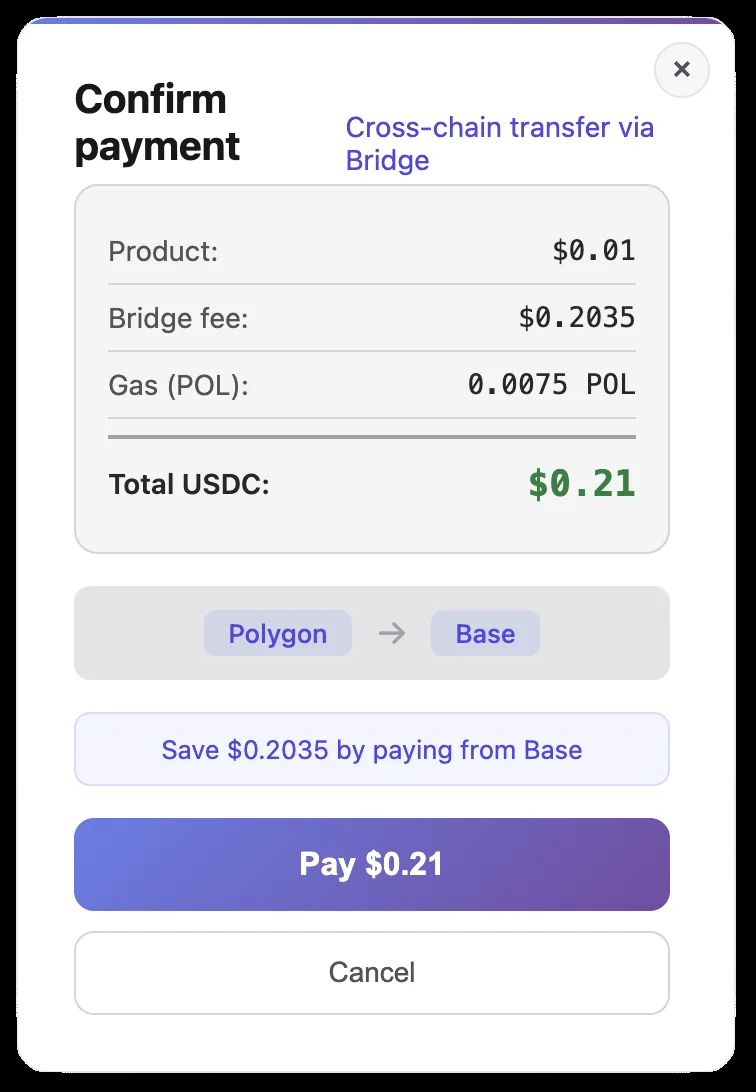
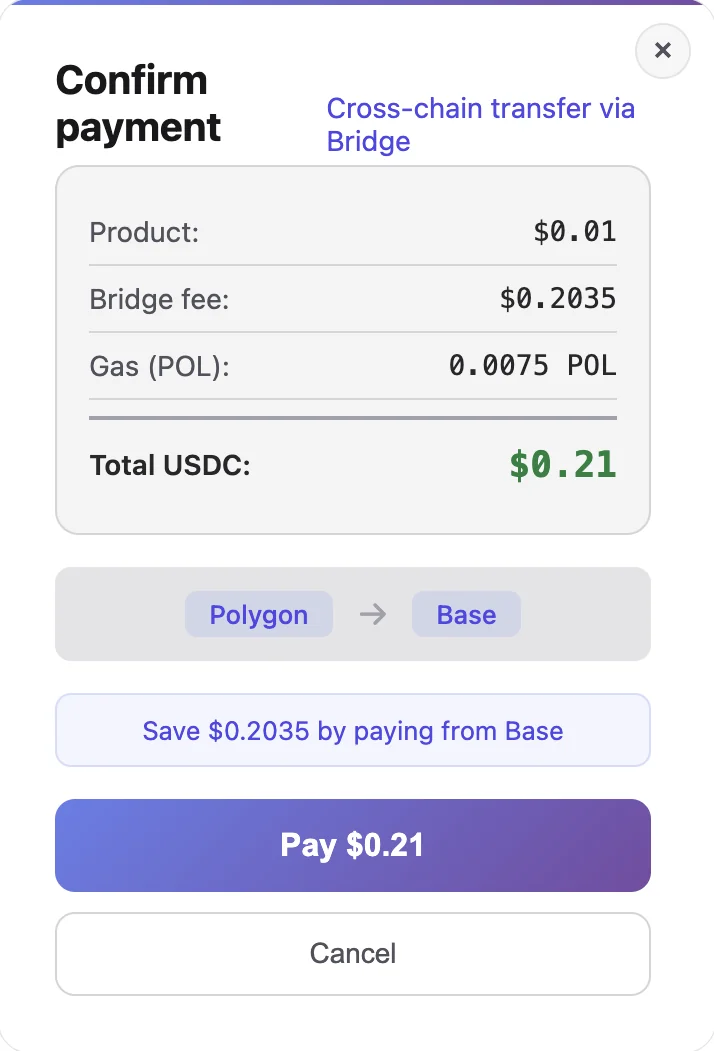
Fix black frames and blur in the Fivo case-study screenshots
The light widget PNGs carry transparent margins; flattening them
without alpha painted those margins black. Crop each capture to its
solid card and flatten on white. The only light-mode dashboard in the
asset folder is a 642 px (1x) crop, which blurs when enlarged: keep it
at its native width in the merchant chapter and as a medium gallery
piece, and use the crisp light demo store (with the Fivo button in the
cart) as the hero anchor instead. Add the checkout-over-store capture
to the gallery.

Claude-Session: https://claude.ai/code/session_01JiMf73s2SCKz6bz3sQmBXa

diff --git a/src/sections/work/fivo/FivoHeroComposition.jsx b/src/sections/work/fivo/FivoHeroComposition.jsx
@@ -3,7 +3,7 @@ import { Shot } from "./fivoBits";
 /**
  * The hero visual — real Fivo surfaces on one controlled stage:
  *
- *   LARGE   merchant dashboard (light, sanitized; shown near its native size)
+ *   LARGE   the light demo store with the Fivo button in the cart (crisp 2x capture)
  *   MAIN    checkout with network selection, tall, front-left
  *   SMALL   completed-payment state, front-right
  *   CHIP    a settlement note, top-right of the dashboard
@@ -23,16 +23,16 @@ export default function FivoHeroComposition({ c }) {
 
       {/* Desktop composition */}
       <div className="relative hidden md:block md:aspect-[16/7.2]">
-        <div className="absolute left-[30%] top-[4%] w-[52%]">
-          <Shot id="merchant-dashboard" alt={alt.dashboard} priority className="rounded-2xl shadow-[0_40px_90px_-40px_rgba(12,18,32,0.35)]" />
+        <div className="absolute left-[27%] top-[4%] w-[56%]">
+          <Shot id="demo-store-light" alt={alt.store} priority className="rounded-2xl shadow-[0_40px_90px_-40px_rgba(12,18,32,0.35)]" />
         </div>
-        <div className="absolute left-[9%] top-[8%] w-[20%]">
+        <div className="absolute left-[8%] top-[8%] w-[20%]">
           <Shot id="checkout-network" alt={alt.checkout} priority className="rounded-2xl shadow-[0_44px_90px_-34px_rgba(12,18,32,0.4)]" />
         </div>
-        <div className="absolute right-[6%] top-[44%] w-[22%]">
+        <div className="absolute right-[6%] top-[46%] w-[22%]">
           <Shot id="checkout-complete" alt={alt.complete} priority className="rounded-2xl shadow-[0_40px_80px_-30px_rgba(12,18,32,0.4)]" />
         </div>
-        <div className="absolute right-[10%] -top-5 flex items-center gap-3 rounded-xl border border-[#E1E5EF] bg-white/95 px-4 py-2.5 shadow-[0_18px_40px_-20px_rgba(12,18,32,0.3)] backdrop-blur">
+        <div className="absolute right-[9%] -top-5 flex items-center gap-3 rounded-xl border border-[#E1E5EF] bg-white/95 px-4 py-2.5 shadow-[0_18px_40px_-20px_rgba(12,18,32,0.3)] backdrop-blur">
           <span aria-hidden="true" className="h-2 w-2 rounded-full bg-emerald-500" />
           <div>
             <p className="font-mono text-[9px] uppercase tracking-[0.18em] text-muted-foreground">{alt.settle.label}</p>
@@ -45,7 +45,7 @@ export default function FivoHeroComposition({ c }) {
 
       {/* Phone / tablet-portrait composition */}
       <div className="relative space-y-4 pt-2 md:hidden">
-        <Shot id="merchant-dashboard" alt={alt.dashboard} priority className="rounded-xl" />
+        <Shot id="demo-store-light" alt={alt.store} priority className="rounded-xl" />
         <div className="grid grid-cols-2 items-start gap-4">
           <Shot id="checkout-network" alt={alt.checkout} className="rounded-xl" />
           <Shot id="checkout-complete" alt={alt.complete} className="rounded-xl" />

diff --git a/src/i18n/es.js b/src/i18n/es.js
@@ -1030,7 +1030,7 @@ export const ES = {
       alliance: "Miembro de Circle Alliance",
       product: { label: "Producto en producción", host: "fivo.finance", url: "https://fivo.finance" },
       composition: {
-        dashboard: "Panel del comercio de Fivo con saldos por wallet e ingresos en el tiempo",
+        store: "Tienda de demostración con el botón de Fivo en el carrito",
         checkout: "Checkout de Fivo en tema claro: selección de red para un pago de 0,01 USDC",
         complete: "Pago completado en el checkout de Fivo",
         settle: { label: "Liquidación", value: "USDC · Base", status: "Verificado en cadena" },
@@ -1388,12 +1388,12 @@ curl -X POST https://api.fivo.finance/refunds/api/create \
       title: "Superficies reales del producto.",
       intro: "Capturas del checkout, del panel y de la tienda de demostración, todas en tema claro. Datos de prueba; ninguna información de comercios reales.",
       items: [
-        { id: "demo-store-light", size: "large", title: "Tienda de demostración", text: "El botón de Fivo conectado a un carrito: lee el total de la página y abre el checkout con ese importe." },
+        { id: "checkout-store", size: "large", title: "Checkout sobre la tienda", text: "El botón abre el checkout de Fivo sobre la propia tienda: saldos por red, tipo de pago y el importe leído del carrito." },
         { id: "connect-wallet", size: "medium", title: "Conexión de la wallet", text: "El checkout se abre con el importe y pide el email del recibo antes de conectar la wallet del cliente." },
-        { id: "merchant-dashboard", size: "large", title: "Panel del comercio", text: "Saldos por wallet, ingresos en el tiempo y acceso a transacciones, wallets, facturas, reembolsos, webhooks y claves de API." },
+        { id: "payment-complete-store", size: "large", title: "Pago completado sobre la tienda", text: "El estado final del checkout: importe, transacción y entrega confirmadas sin salir de la tienda." },
         { id: "crosschain-progress", size: "medium", title: "Pago cross-chain en curso", text: "Aprobación, quema, verificación y entrega: el cliente ve cada paso hasta que llegan los fondos." },
         { id: "invoice", size: "medium", title: "Factura automática", text: "Generada tras cada retiro, con la comisión, el IVA aplicable y la referencia en cadena." },
-        { id: "payment-complete-store", size: "large", title: "Pago completado sobre la tienda", text: "El estado final del checkout sobre la tienda de demostración: importe, transacción y entrega confirmadas." },
+        { id: "merchant-dashboard", size: "medium", title: "Panel del comercio", text: "Saldos por wallet, ingresos en el tiempo y acceso a transacciones, facturas, reembolsos, webhooks y claves de API." },
       ],
     },
     cta: {

diff --git a/src/i18n/en.js b/src/i18n/en.js
@@ -1029,7 +1029,7 @@ export const EN = {
       alliance: "Circle Alliance Member",
       product: { label: "Live product", host: "fivo.finance", url: "https://fivo.finance" },
       composition: {
-        dashboard: "Fivo merchant dashboard with balances per wallet and revenue over time",
+        store: "Demo store with the Fivo button in the cart",
         checkout: "Fivo light-theme checkout: network selection for a 0.01 USDC payment",
         complete: "Completed payment in the Fivo checkout",
         settle: { label: "Settlement", value: "USDC · Base", status: "Verified on-chain" },
@@ -1387,12 +1387,12 @@ curl -X POST https://api.fivo.finance/refunds/api/create \
       title: "Real product surfaces.",
       intro: "Screenshots of the checkout, the dashboard and the demo store, all in the light theme. Test data; no real merchant information.",
       items: [
-        { id: "demo-store-light", size: "large", title: "Demo store", text: "The Fivo button connected to a cart: it reads the page total and opens the checkout with that amount." },
+        { id: "checkout-store", size: "large", title: "Checkout over the store", text: "The button opens the Fivo checkout on top of the store itself: balances per network, payment type and the amount read from the cart." },
         { id: "connect-wallet", size: "medium", title: "Wallet connection", text: "The checkout opens with the amount and asks for the receipt email before connecting the customer's wallet." },
-        { id: "merchant-dashboard", size: "large", title: "Merchant dashboard", text: "Balances per wallet, revenue over time and access to transactions, wallets, invoices, refunds, webhooks and API keys." },
+        { id: "payment-complete-store", size: "large", title: "Payment completed over the store", text: "The checkout's final state: amount, transaction and delivery confirmed without leaving the store." },
         { id: "crosschain-progress", size: "medium", title: "Cross-chain payment in progress", text: "Approval, burn, verification and delivery: the customer sees each step until the funds arrive." },
         { id: "invoice", size: "medium", title: "Automatic invoice", text: "Generated after each withdrawal, with the fee, applicable VAT and the on-chain reference." },
-        { id: "payment-complete-store", size: "large", title: "Payment completed over the store", text: "The checkout's final state over the demo store: amount, transaction and delivery confirmed." },
+        { id: "merchant-dashboard", size: "medium", title: "Merchant dashboard", text: "Balances per wallet, revenue over time and access to transactions, invoices, refunds, webhooks and API keys." },
       ],
     },
     cta: {

diff --git a/src/sections/work/fivo/fivoBits.jsx b/src/sections/work/fivo/fivoBits.jsx
@@ -58,16 +58,17 @@ export function ChapterHead({ kicker, title, intro, wide = false, className = ""
 
 /* Intrinsic sizes of the sanitized assets in /public/work/fivo (for CLS). */
 export const SHOTS = {
-  "checkout-network": [772, 1528],
-  "checkout-confirm": [756, 1092],
-  "checkout-processing": [758, 812],
-  "checkout-complete": [748, 820],
+  "checkout-network": [714, 1499],
+  "checkout-confirm": [714, 1051],
+  "checkout-processing": [714, 789],
+  "checkout-complete": [714, 789],
   "cart-panel": [726, 1034],
   "hosted-checkout": [716, 1540],
   "crosschain-confirm": [712, 1088],
   "crosschain-progress": [712, 794],
   "connect-wallet": [712, 860],
   "payment-complete-store": [2400, 1260],
+  "checkout-store": [2400, 1260],
   "demo-store-light": [2400, 1260],
   "merchant-dashboard": [642, 416],
   invoice: [1270, 760],

diff --git a/src/sections/work/fivo/FivoProductSurfaces.jsx b/src/sections/work/fivo/FivoProductSurfaces.jsx
@@ -4,12 +4,12 @@ import { Chapter, ChapterHead, Shot } from "./fivoBits";
 
 /* Editorial placement: [column span, portrait crop] per item id. */
 const LAYOUT = {
-  "demo-store-light": { span: "md:col-span-4", crop: false },
+  "checkout-store": { span: "md:col-span-4", crop: false },
   "connect-wallet": { span: "md:col-span-2", crop: true },
-  "merchant-dashboard": { span: "md:col-span-4", crop: false },
+  "payment-complete-store": { span: "md:col-span-4", crop: false },
   "crosschain-progress": { span: "md:col-span-2", crop: true },
   invoice: { span: "md:col-span-3", crop: false },
-  "payment-complete-store": { span: "md:col-span-3", crop: true },
+  "merchant-dashboard": { span: "md:col-span-3", crop: false },
 };
 
 /** Inside the product — an art-directed sequence of real surfaces. */

diff --git a/src/sections/work/fivo/FivoMerchantPlatform.jsx b/src/sections/work/fivo/FivoMerchantPlatform.jsx
@@ -18,7 +18,7 @@ export default function FivoMerchantPlatform({ c }) {
 
       <div className="mt-12 grid gap-8 lg:grid-cols-12 lg:gap-10">
         <Reveal variant="scale" className="min-w-0 lg:col-span-7">
-          <div className="relative">
+          <div className="relative mx-auto max-w-[642px] lg:mx-0">
             <Shot id="merchant-dashboard" alt={m.imageAlt} className="rounded-2xl" />
             {Object.entries(MARKERS).map(([i, pos]) => (
               <span
